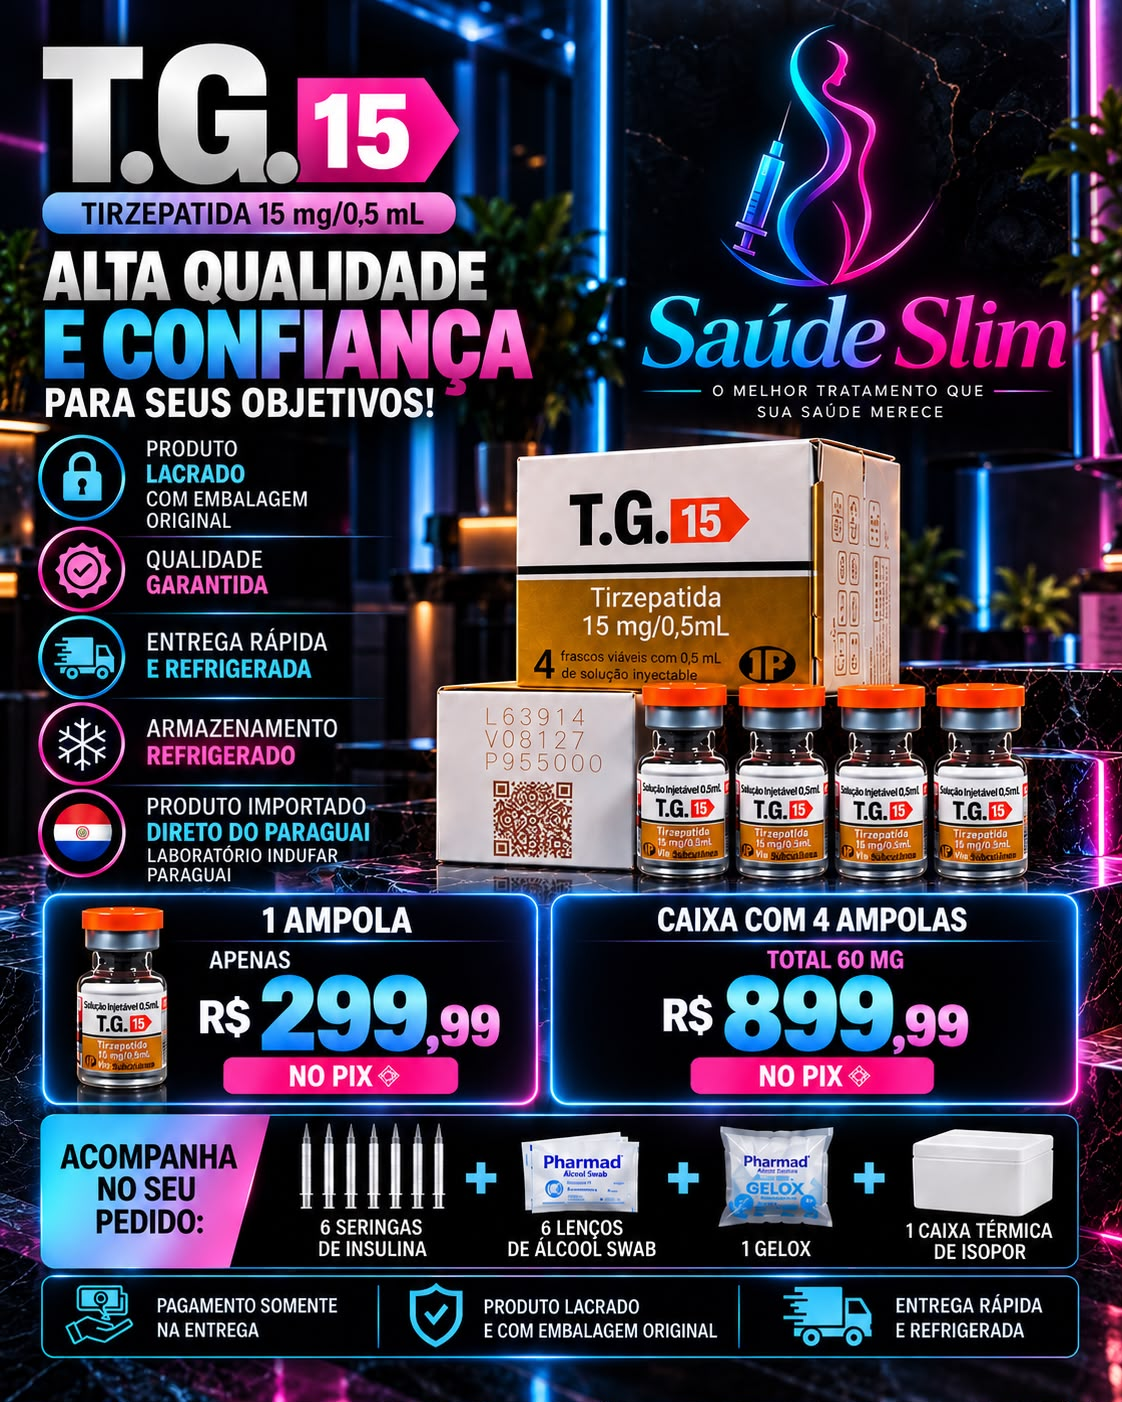
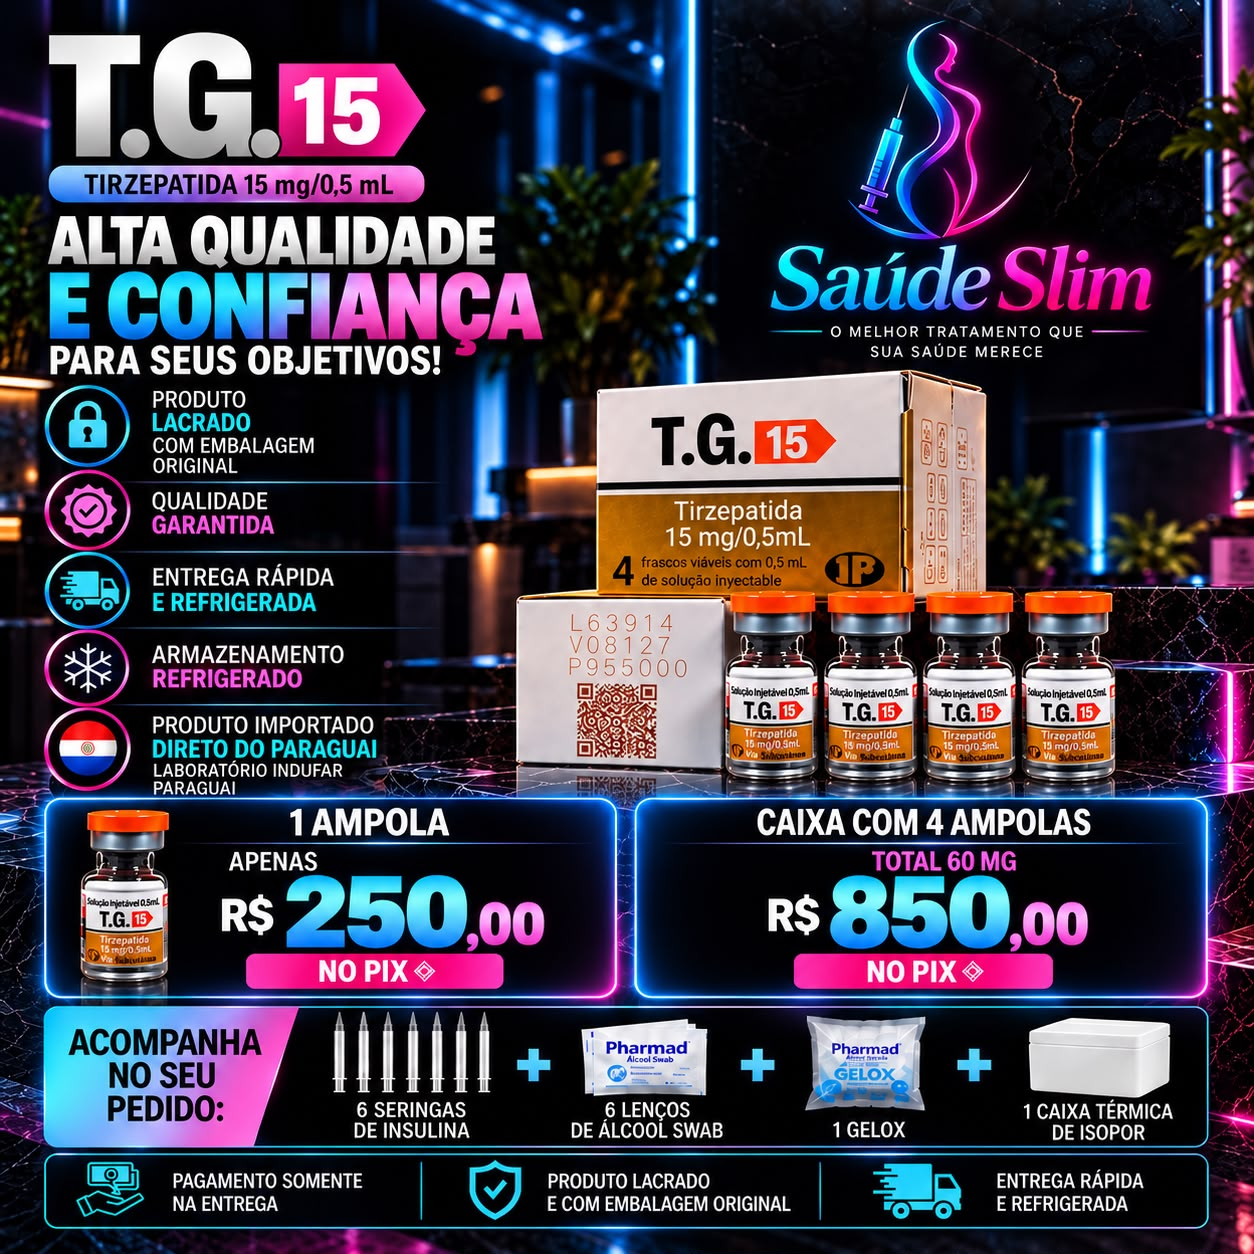
Organizar galeria e oferta do quiz com preços atualizados

diff --git a/public/quiz/app.js b/public/quiz/app.js
@@ -19,13 +19,13 @@ const coreQuestions = [
   { id: 'doubt', label: 'O QUE FALTA PARA DECIDIR', title: 'O que ainda impede você de decidir pelo tratamento?', help: 'Marque o ponto que precisa ser resolvido antes da compra.', options: [
     ['support', 'Ainda não sei como funciona o tratamento e o acompanhamento'], ['safety', 'Preciso entender as opções e como funciona a avaliação'], ['cost', 'Quero saber o preço e tudo o que está incluído'], ['routine', 'Preciso saber como encaixar o tratamento na minha rotina'], ['trust', 'Tenho receio de gastar e me frustrar de novo'] ] },
   { id: 'readiness', label: 'VAMOS DAR O PRÓXIMO PASSO', title: 'Agora que você conhece os valores, qual é a sua decisão?', help: 'Escolha como você quer seguir com a Saúde Slim.', options: [
-    ['now', 'Quero começar e entender como fechar meu tratamento'], ['soon', 'Quero me organizar para começar nas próximas semanas'], ['research', 'Quero esclarecer algumas dúvidas antes de decidir'] ] }
+    ['now', 'Quero começar meu tratamento agora'], ['support', 'Quero entender como funciona o acompanhamento'], ['soon', 'Quero me organizar para começar nas próximas semanas'], ['conditions', 'Quero esclarecer as condições da oferta'], ['research', 'Quero tirar minhas dúvidas com um vendedor'] ] }
 ];
-const offerQuestion = { id:'offer', label:'AGORA, VAMOS FALAR DO TRATAMENTO', title:'Qual opção você quer conhecer melhor?', help:'Conheça as condições iniciais e escolha o que faz sentido para o seu planejamento.', options:[['initial','1 ampola · R$299,99 no Pix'],['complete','Caixa com 4 ampolas · R$899,99 no Pix'],['questions','Quero entender as condições antes de escolher']] };
-const offers = { initial:{name:'1 ampola',price:'R$299,99'},complete:{name:'Caixa com 4 ampolas',price:'R$899,99'},questions:{name:'Opções da oferta',price:'R$299,99'} };
+const offerQuestion = { id:'offer', label:'AGORA, VAMOS FALAR DO TRATAMENTO', title:'Qual opção você quer conhecer melhor?', help:'Conheça as condições iniciais e escolha o que faz sentido para o seu planejamento.', options:[['initial','1 ampola · R$250,00 no Pix'],['complete','Caixa com 4 ampolas · R$850,00 no Pix'],['questions','Quero entender as condições antes de escolher']] };
+const offers = { initial:{name:'1 ampola',price:'R$250,00'},complete:{name:'Caixa com 4 ampolas',price:'R$850,00'},questions:{name:'Opções da oferta',price:'R$250,00'} };
 const stepImages = {
+  offer:{src:'oferta-saude-slim.jpg',alt:'Oferta Saúde Slim: uma ampola por R$250,00 ou caixa com quatro por R$850,00 no Pix'},
   goal:{src:'transformacao-corporal.png',alt:'Comparação corporal enviada para o quiz Saúde Slim'},
-  pain:{src:'rotina-alimentacao.jpg',alt:'Mulher à mesa com alimentos'},
   history:{src:'transformacao-praia.png',alt:'Comparação antes e depois na praia'},
   doubt:{src:'transformacao-comparacao.png',alt:'Comparação corporal com rostos desfocados'},
   readiness:{src:'progresso-fitness.png',alt:'Registro de progresso corporal em quatro meses'}
@@ -77,7 +77,7 @@ function showSummaryTransition() {
 }
 function renderResult() {
   if(!questions().every(q=>state.answers[q.id])) { const missing=questions().findIndex(q=>!state.answers[q.id]);navigate('quiz',Math.max(0,missing),true);return; }
-  main.innerHTML=`<section class="result result-simple"><article class="next-step"><p class="step-label">Saúde Slim</p><h1>Como você quer continuar?</h1><p>Entre no grupo para acompanhar as informações ou converse diretamente com um vendedor.</p><a class="primary group-cta" data-group href="${escapeHtml(WHATSAPP_GROUP_URL)}" target="_blank" rel="noopener noreferrer">${waIcon}<span>Quero entrar no grupo Saúde Slim</span>${arrow}</a><a class="primary seller-cta" data-seller href="${escapeHtml(sellerUrl())}" target="_blank" rel="noopener noreferrer">${waIcon}<span>Falar Agora com Vendedor Online</span>${arrow}</a></article></section>`;
+  main.innerHTML=`<section class="result result-simple"><article class="next-step"><div class="result-content"><div class="result-offer"><img src="assets/oferta-saude-slim.jpg" alt="Oferta Saúde Slim de uma ampola ou caixa com quatro ampolas" width="1122" height="1402"></div><div class="result-actions"><h1>Como você quer continuar?</h1><p>Entre no grupo para acompanhar as informações ou converse diretamente com um vendedor.</p><a class="primary group-cta" data-group href="${escapeHtml(WHATSAPP_GROUP_URL)}" target="_blank" rel="noopener noreferrer">${waIcon}<span>Quero entrar no grupo Saúde Slim</span>${arrow}</a><a class="primary seller-cta" data-seller href="${escapeHtml(sellerUrl())}" target="_blank" rel="noopener noreferrer">${waIcon}<span>Falar Agora com Vendedor Online</span>${arrow}</a><div class="result-proof result-gallery"><img src="assets/transformacao-corporal.png" alt="Comparação corporal"><img src="assets/transformacao-praia.png" alt="Antes e depois na praia"><img src="assets/transformacao-comparacao.png" alt="Comparação com rostos desfocados"><img src="assets/progresso-fitness.png" alt="Registro de progresso em quatro meses"></div></div></div></article></section>`;
 
   main.querySelector('[data-group]').onclick=animateGroupButton;
 }

diff --git a/public/quiz/styles.css b/public/quiz/styles.css
@@ -61,3 +61,23 @@ body.slim-quiz{display:flex;flex-direction:column;min-height:100vh;min-height:10
 
 /* Abertura centralizada verticalmente, com aviso no fim da tela. */
 body:has(.intro-simple)>main{display:flex;align-items:center;justify-content:center;width:100%}.intro-simple{width:100%;margin:24px auto}@media(max-width:760px){.intro-simple{margin:20px auto}}
+
+/* Fotos legíveis no desktop e inteiras no celular. */
+@media(min-width:761px){.quiz-wrap.has-photo{max-width:1240px;grid-template-columns:minmax(0,1fr) minmax(0,1.15fr);gap:32px}.has-photo .aside-image{max-width:none;width:100%;height:auto}.has-photo .aside-image img{width:100%;height:auto;max-height:none;object-fit:contain}}
+@media(max-width:760px){.has-photo .question-photo img{max-height:none;height:auto;width:100%;object-fit:contain}}
+.option-number{width:27px;min-width:27px}
+
+/* Encerramento com a arte comercial legível e os dois caminhos de contato. */
+body:has(.result-simple) .site-header{display:none}.result-simple{max-width:1120px}.result-simple .next-step{display:block;padding:28px}.result-content{display:grid;grid-template-columns:minmax(0,1fr) minmax(0,1fr);gap:28px;align-items:center}.result-offer img{width:100%;height:auto;object-fit:contain;border-radius:12px}.result-actions p{font-size:14px;line-height:1.7;color:var(--muted);margin-bottom:24px}.result-actions h1{font-size:32px}.result-actions .primary{width:100%}@media(max-width:760px){.result-simple .next-step{padding:18px}.result-content{grid-template-columns:1fr;gap:22px}.result-actions h1{font-size:27px}.result-actions .primary{font-size:13px;padding-left:14px;padding-right:14px}}
+
+/* Oferta preservada; chamada no alto e antes/depois abaixo. */
+.result-content{align-items:start}.result-actions h1{margin-top:0}.result-proof{margin-top:24px}.result-proof img{display:block;width:100%;height:auto;max-height:380px;object-fit:contain;object-position:top;border-radius:12px}@media(max-width:760px){.result-proof img{max-height:none}.result-content{gap:24px}}
+
+@media(min-width:761px){.result-actions{display:flex;flex-direction:column}.result-proof{order:-1;margin-top:0;margin-bottom:22px}}
+
+/* Encerramento compacto com alinhamento entre as duas colunas. */
+.result-simple .next-step{padding:24px}.result-content{gap:24px}.result-actions h1{font-size:28px;line-height:1.2;margin:0 0 10px}.result-actions p{font-size:13px;line-height:1.6;margin:0 0 14px}.result-actions .primary{min-height:50px;padding:14px 16px}.result-actions .group-cta{margin-top:0}.result-actions .seller-cta{margin-top:10px}@media(min-width:761px){.result-proof{margin-bottom:14px}.result-proof img{max-height:220px}}@media(max-width:760px){.result-simple .next-step{padding:18px}.result-actions h1{font-size:26px}.result-proof img{max-height:none}}
+
+/* Galeria superior e contatos alinhados à base da oferta. */
+@media(min-width:1001px){.result-content{align-items:stretch}.result-actions{display:flex;flex-direction:column;justify-content:flex-end}.result-actions .result-gallery{order:-1;margin:0 0 auto;padding-bottom:20px}.result-gallery{display:grid;grid-template-columns:repeat(4,minmax(0,1fr));gap:8px}.result-gallery img{width:100%;height:172px;max-height:none;object-fit:contain;border-radius:7px}.result-actions .seller-cta{flex-shrink:0}}
+@media(max-width:1000px){.result-content{grid-template-columns:1fr}.result-actions{display:flex;flex-direction:column}.result-actions .result-gallery{order:1;margin:22px 0 0;padding:0;display:grid;grid-template-columns:repeat(2,minmax(0,1fr));gap:10px}.result-gallery img{height:auto;max-height:none;width:100%;object-fit:contain}.result-actions h1,.result-actions p,.result-actions .primary{order:0}}

diff --git a/public/quiz/index.html b/public/quiz/index.html
@@ -8,9 +8,9 @@
   <meta name="description" content="Um espaço para entender seu objetivo, reconhecer o que dificulta seu emagrecimento e pensar no próximo passo com a Saúde Slim.">
   <meta name="robots" content="noindex,nofollow">
   <title>Seu próximo passo — Saúde Slim</title>
-  <link rel="stylesheet" href="/brand/saude-slim.css?v=20261106c">
-  <link rel="stylesheet" href="styles.css?v=20261106c">
-  <script defer src="app.js?v=20261106c"></script>
+  <link rel="stylesheet" href="/brand/saude-slim.css?v=20261106d">
+  <link rel="stylesheet" href="styles.css?v=20261106d">
+  <script defer src="app.js?v=20261106d"></script>
 </head>
 <body class="slim-quiz">
   <a class="skip" href="#conteudo">Ir para o conteúdo</a>

diff --git a/src/lib/lobo-quiz-document.html b/src/lib/lobo-quiz-document.html
@@ -8,9 +8,9 @@
   <meta name="description" content="Um espaço para entender seu objetivo, reconhecer o que dificulta seu emagrecimento e pensar no próximo passo com a Saúde Slim.">
   <meta name="robots" content="noindex,nofollow">
   <title>Seu próximo passo — Saúde Slim</title>
-  <link rel="stylesheet" href="/brand/saude-slim.css?v=20261106c">
-  <link rel="stylesheet" href="styles.css?v=20261106c">
-  <script defer src="app.js?v=20261106c"></script>
+  <link rel="stylesheet" href="/brand/saude-slim.css?v=20261106d">
+  <link rel="stylesheet" href="styles.css?v=20261106d">
+  <script defer src="app.js?v=20261106d"></script>
 </head>
 <body class="slim-quiz">
   <a class="skip" href="#conteudo">Ir para o conteúdo</a>

diff --git a/docs/tasks/2026-11-06-slim-quiz-branching.md b/docs/tasks/2026-11-06-slim-quiz-branching.md
@@ -1,0 +1,23 @@
+# Fluxo contextual do Quiz Saúde Slim
+
+Requisitos: primeira resposta define uma de cinco trilhas; próximas perguntas variam conforme escolhas anteriores; contextualizar protocolo/acompanhamento/PDFs sem nomes de produtos antes da oferta; convergir somente no final para preço e grupo/vendedor. Remover foto da mulher à mesa com doces da etapa pain.
+
+Estado: foto retirada do fluxo; desenho das ramificações em preparação para revisão. Não alterar ofertas, destinatários, integrações ou backend.
+
+Correção solicitada: restaurada a arte comercial original oferta-saude-slim.jpg na pergunta seis; retirada anterior foi indevida. Sem alteração de preços ou arte.
+
+Fotos desktop: remover limite de 300px e ampliar coluna para quase metade do card, até 1240px de largura total; celular sem limite de altura, foto inteira em largura disponível. Restaurada legibilidade da arte comercial. Indicadores de seleção com largura explícita após centralização.
+
+Ajustes adicionais: cinco decisões na pergunta sete; restaurar arte da oferta também no encerramento (desktop em coluna ampla, mobile inteira); remover logo/nome do topo no encerramento e rótulo textual repetido.
+
+Encerramento revisado: preservar oferta; chamada no alto da coluna direita e antes/depois da etapa sete abaixo dos contatos. Mobile em ordem oferta, chamada/botões e antes/depois, ambos inteiros.
+
+Revisão seguinte: no desktop colocar antes/depois no alto da coluna dos contatos; manter sequência mobile oferta, chamada/botões e antes/depois.
+
+Nova arte enviada e preços explicitamente confirmados: R$250,00 por ampola e R$850,00 pela caixa com quatro no Pix. Atualizar imagem, alternativas e mensagem do vendedor em conjunto.
+
+Refino final: arte nova quadrada; reduzir antes/depois desktop para 220px e compactar título, descrição e contatos para equilibrar alturas. Mobile preserva imagens inteiras.
+
+Galeria final solicitada: quatro imagens antes/depois, pequenas no alto à direita; texto e contatos abaixo, último botão alinhado à base da oferta. Layout estreito: oferta, chamada/contatos, galeria de imagens inteiras. Publicação autorizada.
+
+Checkpoint visual: galeria 4/4, arte atualizada, R$250/R$850, cinco decisões finais, foto de comida removida, arte também na etapa seis. Navegador confirmou bases do vendedor e imagem da oferta coincidentes. Ramificações novas seguem em implementação separada.
